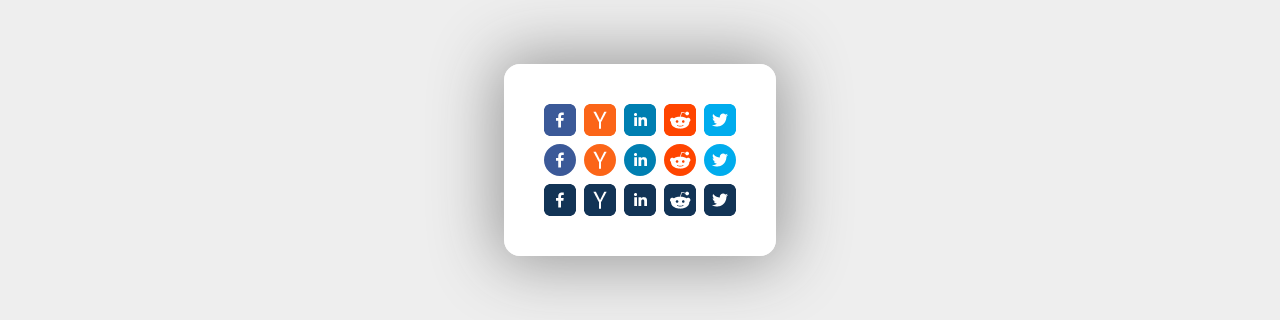
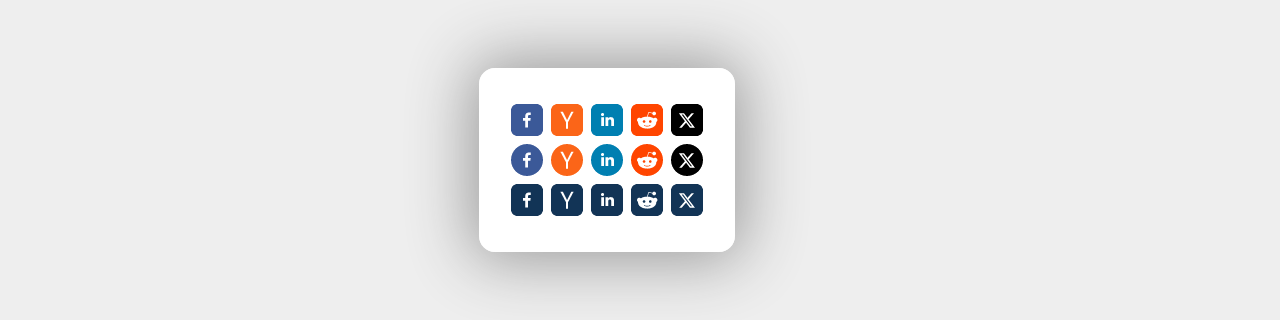
update preview images

Changed region(s): [[0.3438, 0.1875, 0.625, 0.8125]]

diff --git a/packages/site/src/routes/example/+page.svelte b/packages/site/src/routes/example/+page.svelte
@@ -1,34 +1,71 @@
-<script>
+<script lang="ts">
 	import AllLinks from '$lib/AllLinks.svelte';
+
+	let size: 'sm' | 'md' | 'lg' = 'md';
 </script>
 
-<div class="page">
-    <div class="front">
-        <AllLinks/>
+<div class="wrapper">
+	<input type="radio" value="sm" bind:group={size} />
+	<input type="radio" value="md" bind:group={size} />
+	<input type="radio" value="lg" bind:group={size} />
 
-        <AllLinks round/>
+	<div class="page {size}">
+		<div class="front">
+			<AllLinks size={size === 'lg' ? 64 : 32} />
 
-        <AllLinks color="#123456"/>
-    </div>
+			<AllLinks size={size === 'lg' ? 64 : 32} round />
+
+			<AllLinks size={size === 'lg' ? 64 : 32} color="#123456" />
+		</div>
+	</div>
 </div>
 
 <style>
-    .page {
-        position: absolute;
-        inset: 0;
-        background: #eee;
-    }
+	.wrapper {
+		position: absolute;
+		inset: 0;
+		background: #eee;
+		display: flex;
+		align-items: center;
+		justify-content: center;
+	}
 
-    .front {
-        position: absolute;
-        top: 50%;
-        left: 50%;
-        transform: translate(-50%, -50%);
+	.page.sm {
+		width: 640px;
+		height: 320px;
+	}
 
-        display: inline-block;
-        padding: 32px;
-        border-radius: 16px;
-        background: white;
-        box-shadow: 0 0 64px 8px #999;
-    }
+	.page.md {
+		width: 1280px;
+		height: 320px;
+	}
+
+	.page.lg {
+		width: 1280px;
+		height: 640px;
+	}
+
+	.page .front :global(div) {
+		gap: 8px;
+		margin: 4px 0;
+	}
+
+	.page.lg .front :global(div) {
+		gap: 16px;
+		margin: 8px 0;
+	}
+
+	.front {
+		position: absolute;
+		top: 50%;
+		left: 50%;
+		transform: translate(-50%, -50%);
+
+		display: flex;
+		flex-direction: column;
+		padding: 32px;
+		border-radius: 16px;
+		background: white;
+		box-shadow: 0 0 64px 8px #999;
+	}
 </style>
